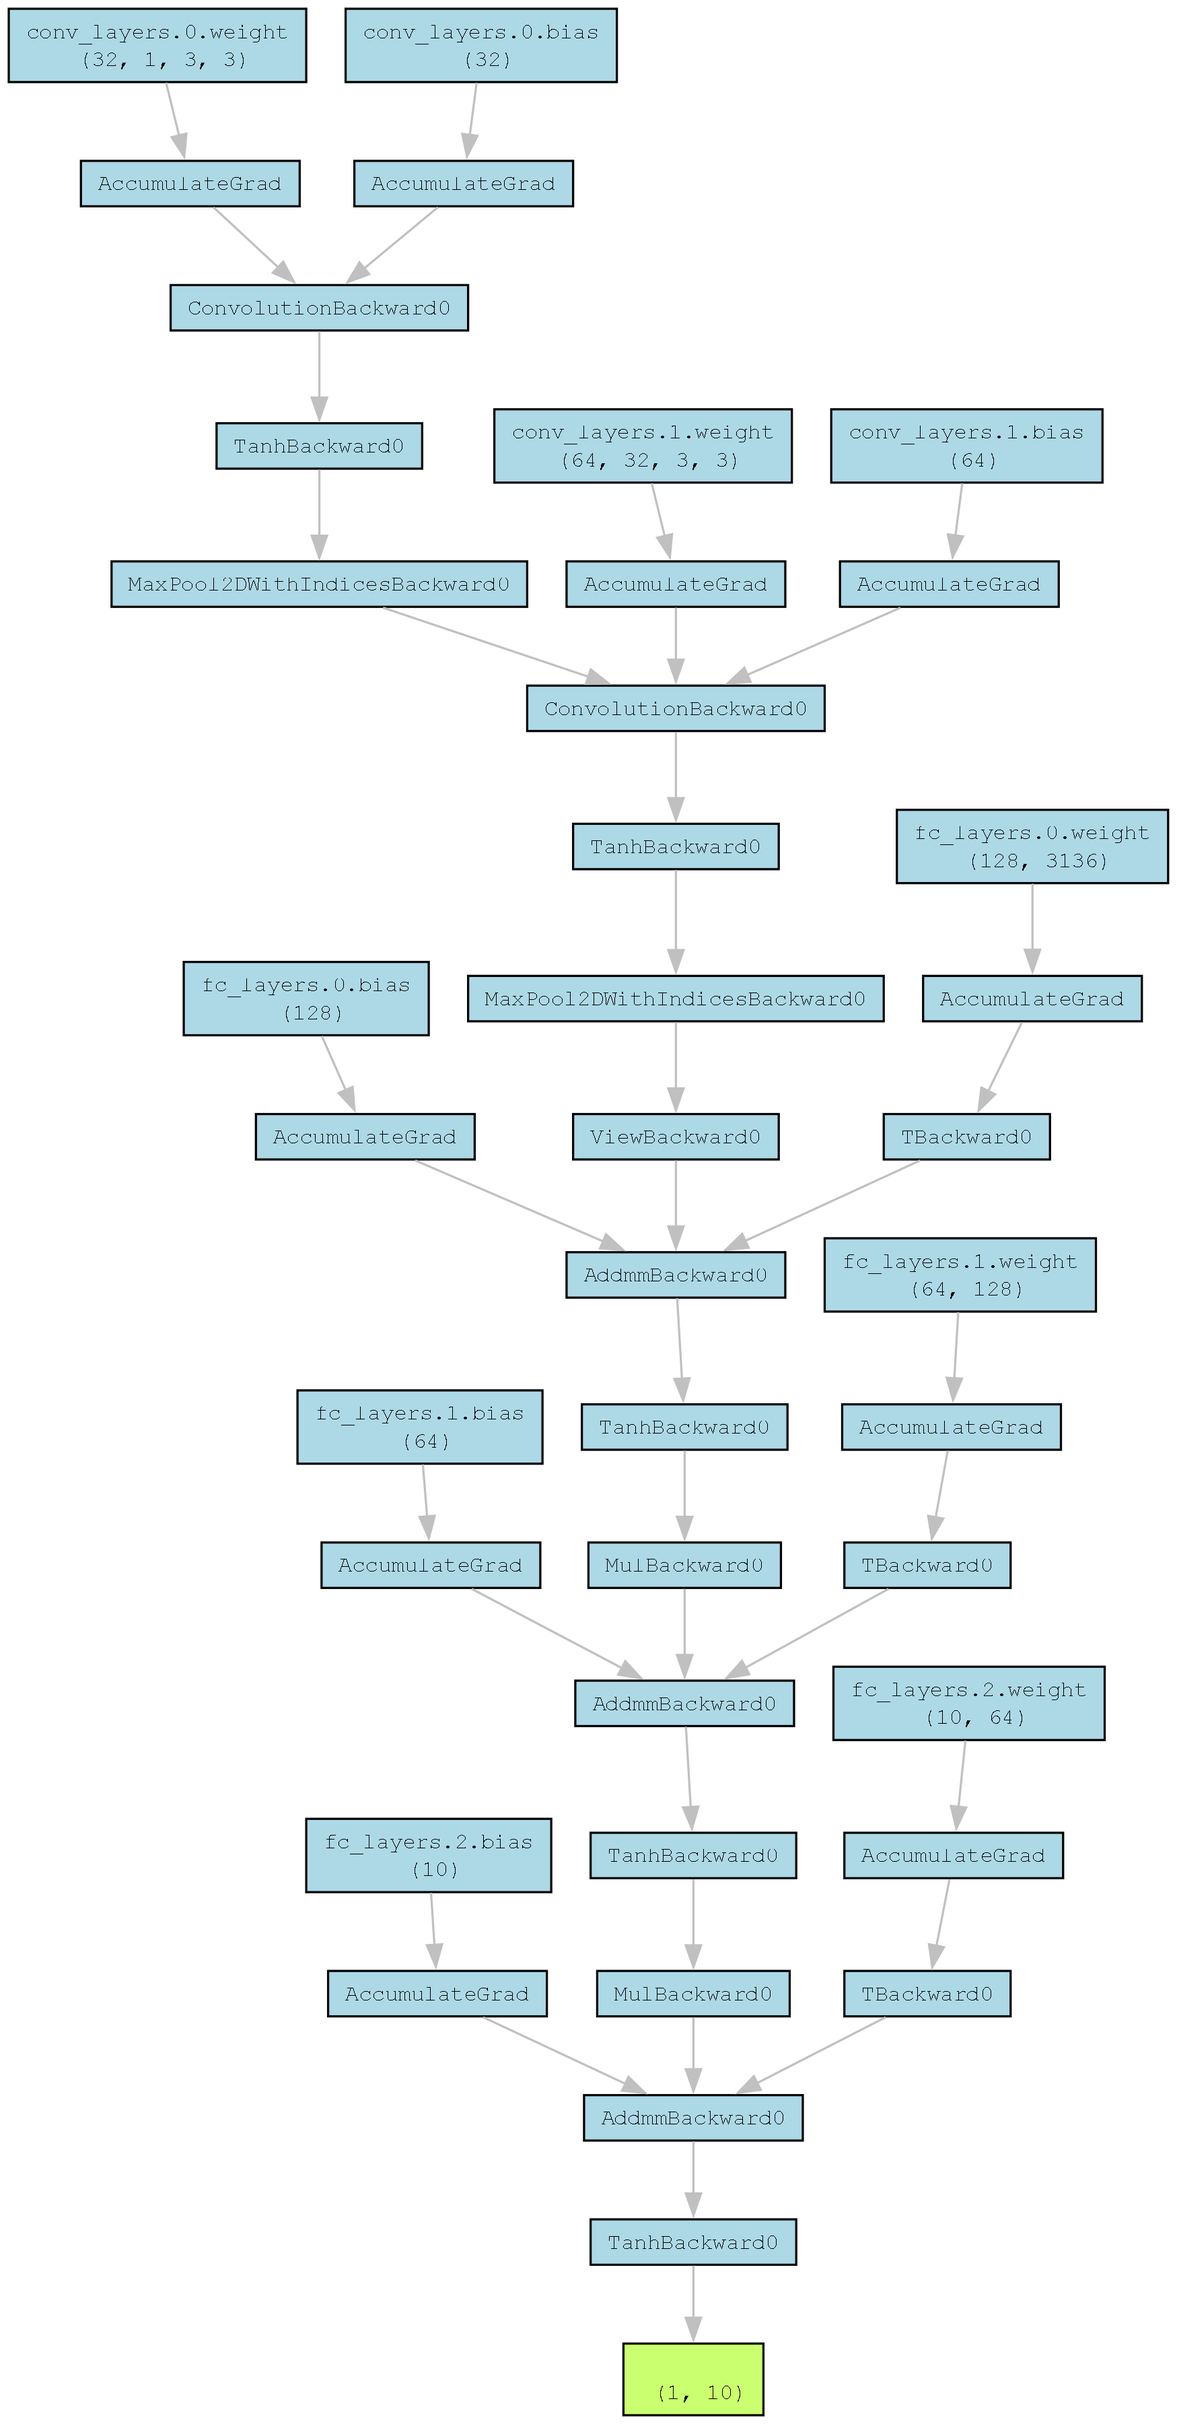
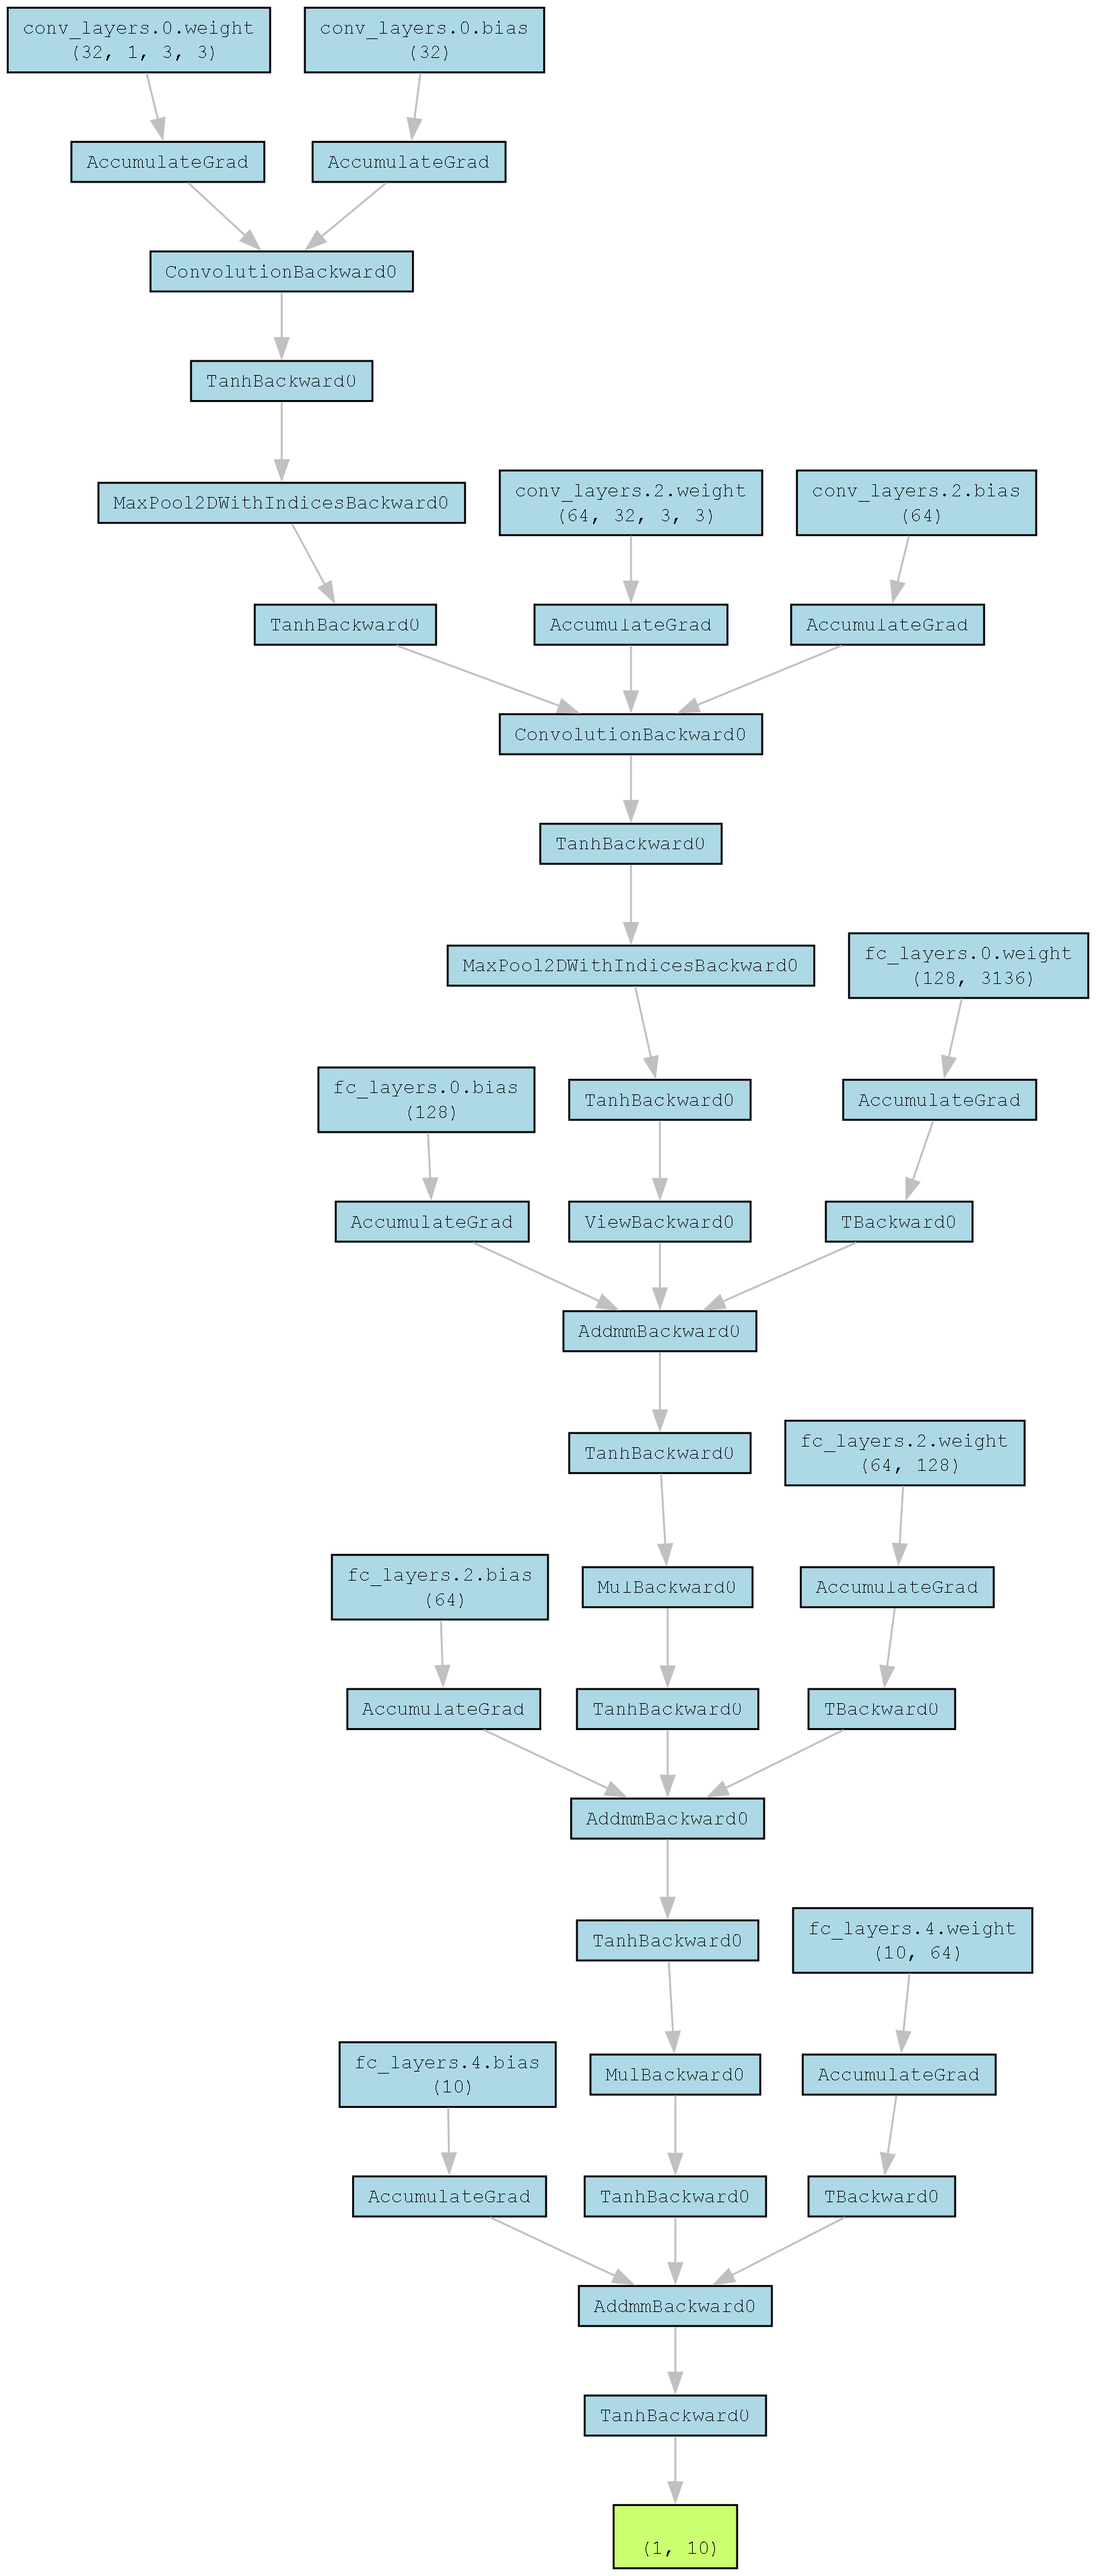
Updated how the config is used to create the model architecture. It's much more flexible now

Changed region(s): [[0.0, 0.0, 1.0, 1.0]]

diff --git a/src/model/classes/compiler.py b/src/model/classes/compiler.py
@@ -33,7 +33,7 @@ class ModelCompiler(nn.Module):
         super(ModelCompiler, self).__init__()
         self._load_config(config)
         self._initialize_layers()
-        self._set_activation_function(config.model.activation_function)
+        self._set_activation_function()
         logger.info("Model configuration loaded")
 
     def forward(self, x):
@@ -47,7 +47,7 @@ class ModelCompiler(nn.Module):
             torch.Tensor: Output tensor.
         """
         logger.debug("Starting forward pass")
-        x = self._apply_conv_and_pool_layers(x)
+        x = self._apply_conv_layers(x)
         x = self._flatten(x)
         x = self._apply_fc_layers(x)
         logger.debug("Forward pass completed")
@@ -86,71 +86,74 @@ class ModelCompiler(nn.Module):
     def _load_config(self, config):
         self.learning_rate = config.model.learning_rate
         self.optimizer_name = config.model.optimizer
+        self.activation_function_name = config.model.activation_function
 
         self.conv_layers_config = config.model.conv_layers
-        self.pool_layers_config = config.model.pool_layers
-
         self.view_shape_channels = config.model.view_shape.channels
         self.view_shape_height = config.model.view_shape.height
         self.view_shape_width = config.model.view_shape.width
         self.fc_layers_config = config.model.fc_layers
 
     def _initialize_layers(self):
-        self.conv_layers = nn.ModuleList()
-        for conv_layer in self.conv_layers_config:
-            self.conv_layers.append(
-                nn.Conv2d(
-                    in_channels=conv_layer["in_channels"],
-                    out_channels=conv_layer["out_channels"],
-                    kernel_size=conv_layer["kernel_size"],
-                    stride=conv_layer["stride"],
-                    padding=conv_layer["padding"],
-                )
-            )
-
-        self.pool_layers = nn.ModuleList()
-        for pool_layer in self.pool_layers_config:
-            self.pool_layers.append(
-                nn.MaxPool2d(
-                    kernel_size=pool_layer["kernel_size"],
-                    stride=pool_layer["stride"],
-                    padding=pool_layer["padding"],
-                )
-            )
-
+        # Initialize fully connected layers
         self.fc_layers = nn.ModuleList()
-        self.dropouts = nn.ModuleList()
-        in_features = (
-            self.view_shape_channels * self.view_shape_height * self.view_shape_width
-        )
-        for fc_layer in self.fc_layers_config:
-            self.fc_layers.append(
-                nn.Linear(
-                    in_features=in_features, out_features=fc_layer["out_features"]
-                )
-            )
-            in_features = fc_layer["out_features"]
-            self.dropouts.append(
-                nn.Dropout(p=fc_layer.get("dropout", 0.0))
-            )  # Default to 0.0 if not specified
+        for layer_cfg in self.fc_layers_config:
+            layer_type = layer_cfg['type']
+            if layer_type == 'Linear':
+                self.fc_layers.append(nn.Linear(layer_cfg['in_features'], layer_cfg['out_features']))
+            elif layer_type == 'Dropout':
+                self.fc_layers.append(nn.Dropout(layer_cfg['p']))
+            elif layer_type == 'BatchNorm1d':
+                self.fc_layers.append(nn.BatchNorm1d(layer_cfg['num_features']))
+            else:
+                raise ValueError(f"Unsupported layer type: {layer_type}")
 
-        logger.info("Model layers initialized")
+        # Initialize deconvolutional layers
+        self.conv_layers = nn.ModuleList()
+        for layer_cfg in self.conv_layers_config:
+            layer_type = layer_cfg['type']
+            if layer_type == 'ConvTranspose2d':
+                self.conv_layers.append(nn.ConvTranspose2d(
+                    layer_cfg['in_channels'],
+                    layer_cfg['out_channels'],
+                    kernel_size=layer_cfg['kernel_size'],
+                    stride=layer_cfg['stride'],
+                    padding=layer_cfg['padding']
+                ))
+            elif layer_type == 'Dropout2d':
+                self.conv_layers.append(nn.Dropout2d(layer_cfg['p']))
+            elif layer_type == 'BatchNorm2d':
+                self.conv_layers.append(nn.BatchNorm2d(layer_cfg['num_features']))
+            elif layer_type == 'MaxPool2d':
+                self.conv_layers.append(nn.MaxPool2d(kernel_size=layer_cfg['kernel_size'], stride=layer_cfg['stride'], padding=layer_cfg['padding']))
+            elif layer_type == 'AvgPool2d':
+                self.conv_layers.append(nn.AvgPool2d(kernel_size=layer_cfg['kernel_size'], stride=layer_cfg['stride'], padding=layer_cfg['padding']))
+            elif layer_type == 'Conv2d':
+                self.conv_layers.append(nn.Conv2d(
+                    layer_cfg['in_channels'],
+                    layer_cfg['out_channels'],
+                    kernel_size=layer_cfg['kernel_size'],
+                    stride=layer_cfg['stride'],
+                    padding=layer_cfg['padding']
+                ))
+            else:
+                raise ValueError(f"Unsupported layer type: {layer_type}")
 
-    def _set_activation_function(self, activation_function):
-        if activation_function == "relu":
+    def _set_activation_function(self):
+        if self.activation_function_name == "relu":
             self.activation_function = F.relu
-        elif activation_function == "leaky_relu":
+        elif self.activation_function_name == "leaky_relu":
             self.activation_function = F.leaky_relu
-        elif activation_function == "sigmoid":
+        elif self.activation_function_name == "sigmoid":
             self.activation_function = F.sigmoid
-        elif activation_function == "tanh":
+        elif self.activation_function_name == "tanh":
             self.activation_function = F.tanh
         else:
-            raise ValueError(f"Unsupported activation function: {activation_function}")
-
-    def _apply_conv_and_pool_layers(self, x):
-        for conv_layer, pool_layer in zip(self.conv_layers, self.pool_layers):
-            x = pool_layer(self.activation_function(conv_layer(x)))
+            raise ValueError(f"Unsupported activation function: {self.activation_function_name}")
+    
+    def _apply_conv_layers(self, x):
+        for layer in self.conv_layers:
+            x = self.activation_function(layer(x))
         return x
 
     def _flatten(self, x):
@@ -159,12 +162,10 @@ class ModelCompiler(nn.Module):
             self.view_shape_channels * self.view_shape_height * self.view_shape_width,
         )
         return x
-
+    
     def _apply_fc_layers(self, x):
-        for i, (fc_layer, dropout) in enumerate(zip(self.fc_layers, self.dropouts)):
-            x = self.activation_function(fc_layer(x))
-            if i < len(self.fc_layers) - 1:  # Apply dropout to all but the last layer
-                x = dropout(x)
+        for layer in self.fc_layers:
+            x = self.activation_function(layer(x))
         return x
 
     def _set_loss_function(self):

diff --git a/src/model/classes/tuner.py b/src/model/classes/tuner.py
@@ -55,8 +55,11 @@ class HyperparameterTuner:
         self.config["model"]["optimizer"] = params["optimizer"]
         self.config["model"]["activation_function"] = params["activation_function"]
         for i, layer in enumerate(self.config["model"]["fc_layers"]):
-            if "dropout" in layer and i != len(self.config["model"]["fc_layers"]) - 1:
-                layer["dropout"] = params["dropout"]
+            if layer["type"] == "Dropout":
+                layer["p"] = params["dropout"]
+        for i, layer in enumerate(self.config["model"]["deconv_layers"]):
+            if layer["type"] == "Dropout2d":
+                layer["p"] = params["dropout2d"]
 
     def _compile_train_and_cross_validate(self, train_images, train_labels):
         model = ModelCompiler(self.config)

diff --git a/src/model/classes/trainer_utils.py b/src/model/classes/trainer_utils.py
@@ -56,7 +56,8 @@ class ModelTrainerUtils:
 
     @staticmethod
     def initialize_model(model):
-        device = torch.device("cuda" if torch.cuda.is_available() else "cpu")
+        #device = torch.device("cuda" if torch.cuda.is_available() else "cpu")
+        device = "cpu"
         model.to(device)
         return model, device
 
